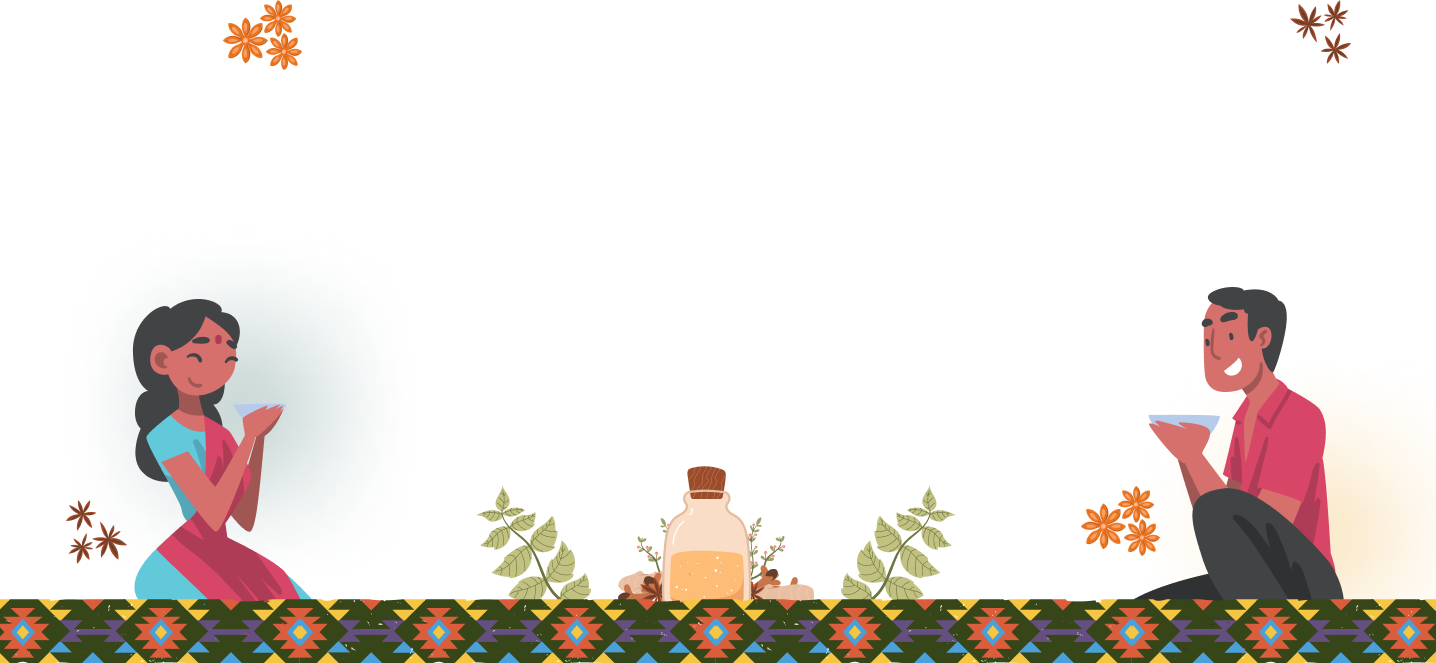
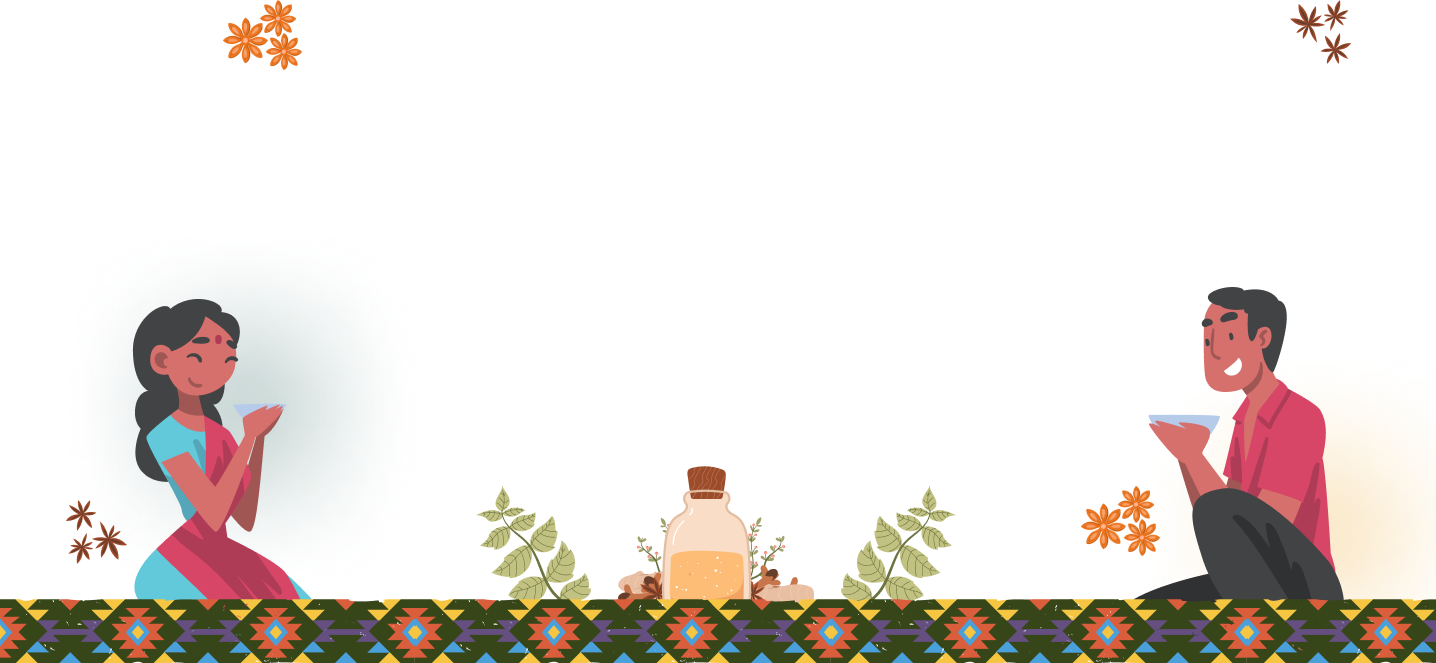
hero done : minus responsive

Changed region(s): [[0.0, 0.905, 1.0, 1.0]]

diff --git a/style.css b/style.css
@@ -133,18 +133,17 @@ article.post:last-of-type {
     margin-right: auto;
     margin-top: auto;
     margin-bottom: auto;
-    background: pink;
     color: #366C66;
+    padding-top: 80px;
 }
 
 .hero {
-    /* background-image: url("assets/home/hero-bg.png"); */
-    background-size: contain;
+    background-image: url("assets/home/hero-bg.png");
+    background-size: cover;
     background-repeat: no-repeat;
-    /* background-color: red; */
-    /* height: 100vh; */
-    /* width: 100vw; */
+    background-position: center;
     height: 713px;
+    margin-top: 50px;
 }
 
 .hero > img {

diff --git a/sections/hero.php b/sections/hero.php
@@ -1,5 +1,4 @@
 <div class="hero">
-    <img width="500" height="600" src='' alt="">
     <div class="text-container">
         <h1 class="title-hero">BertigaDjamoe</h1>
         <p class="desc-hero">Dapatkan rahasia kesehatan alami yang tak ternilai dari artikel djamoe terbaru! Temukan manfaat luar biasa dari ramuan tradisional ini dan jadikan hidup Anda lebih sehat dan bugar.</p>
